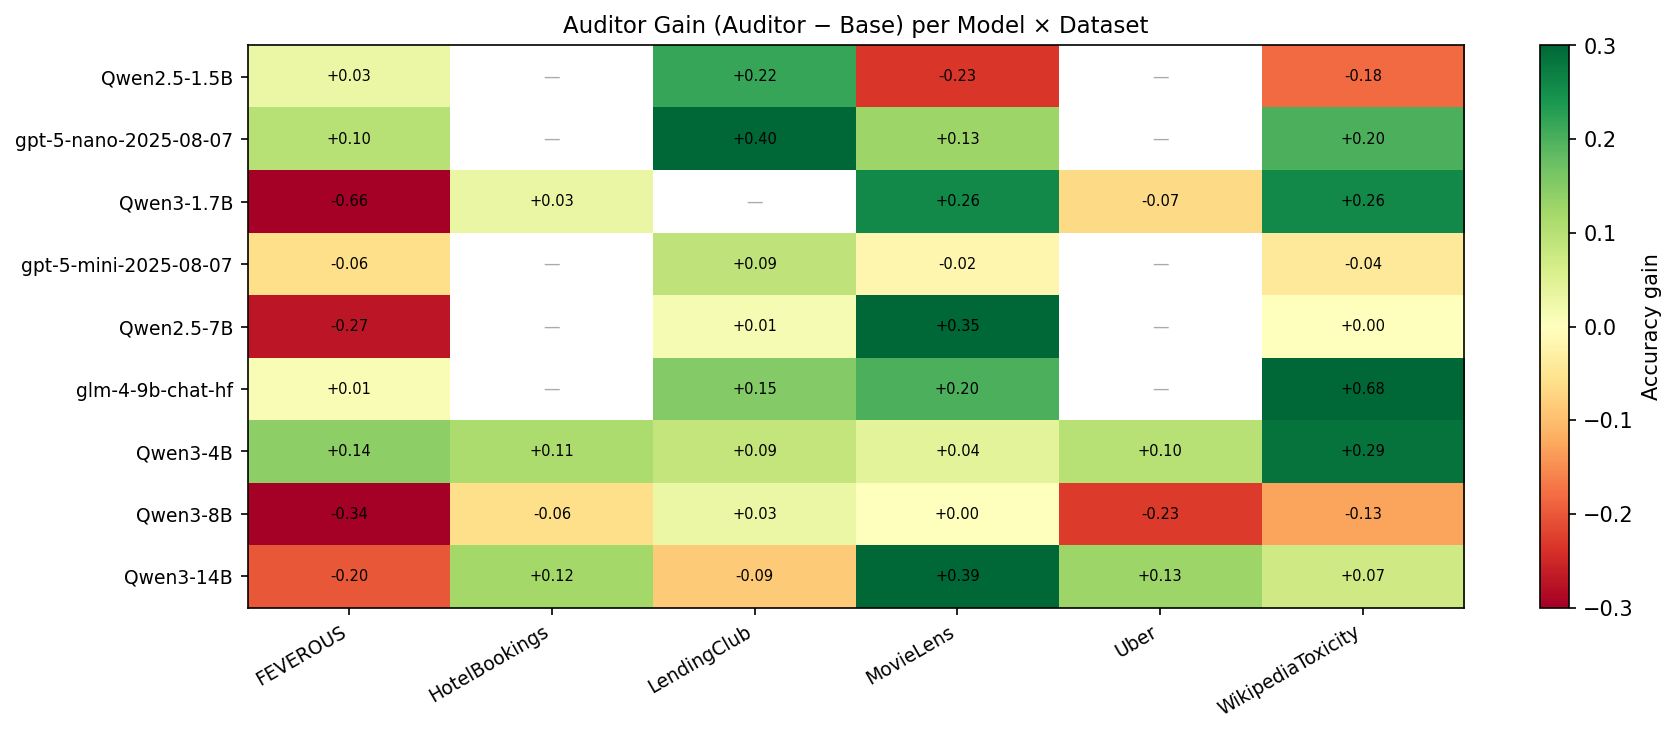
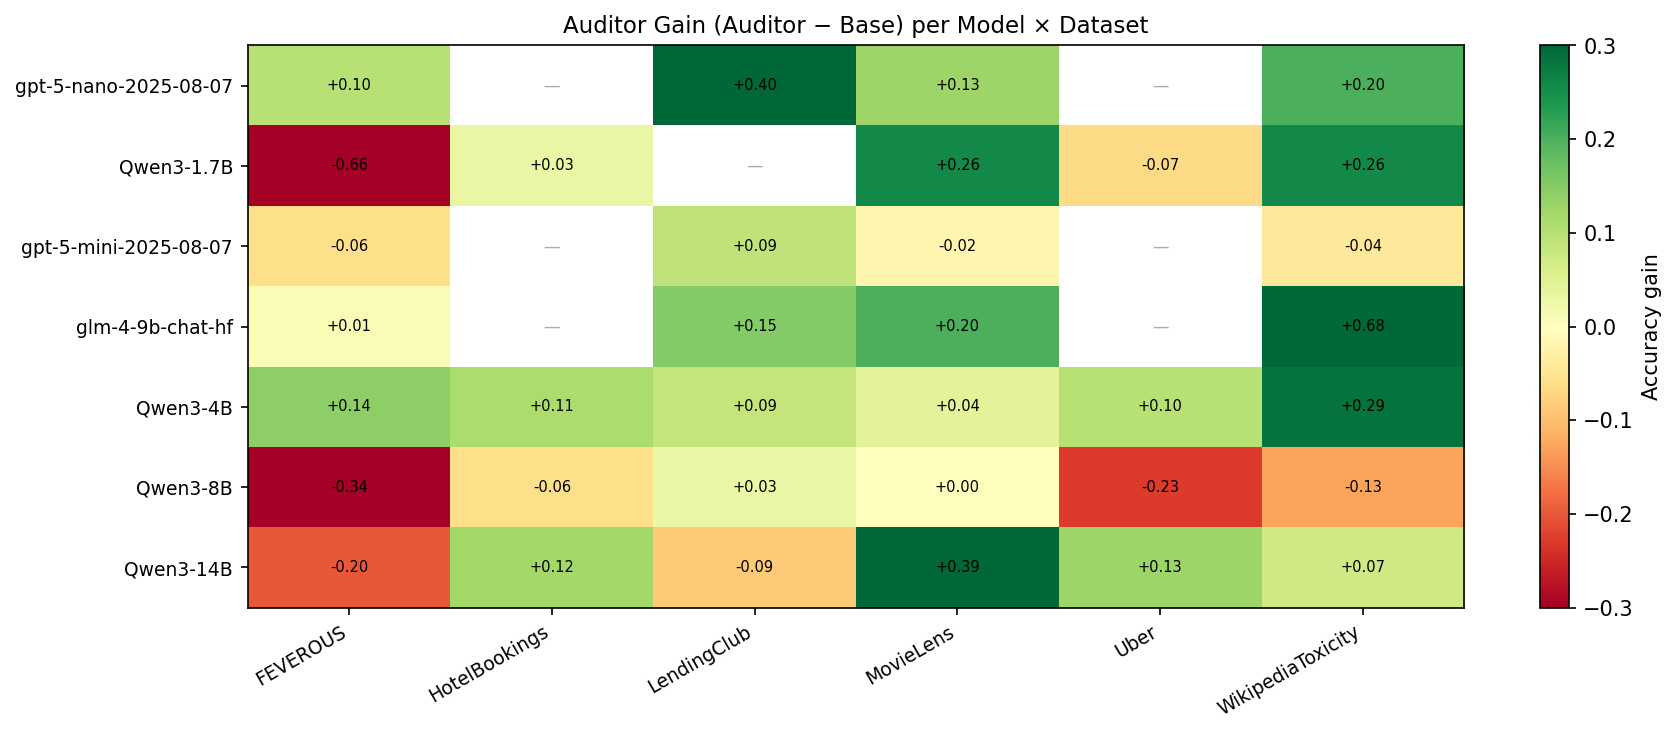
Remove Qwen2.5 rows from model x method accuracy analysis
https://claude.ai/code/session_014ywgEPu7pi1Aw4HH2SWQWR

diff --git a/scripts/plot_model_method_accuracy.py b/scripts/plot_model_method_accuracy.py
@@ -20,8 +20,8 @@ DATASETS = [
     "LendingClub", "MovieLens", "Uber", "WikipediaToxicity",
 ]
 MODELS = [
-    "Qwen2.5-1.5B-Instruct", "gpt-5-nano-2025-08-07", "Qwen3-1.7B",
-    "gpt-5-mini-2025-08-07", "Qwen2.5-7B-Instruct", "glm-4-9b-chat-hf",
+    "gpt-5-nano-2025-08-07", "Qwen3-1.7B",
+    "gpt-5-mini-2025-08-07", "glm-4-9b-chat-hf",
     "Qwen3-4B", "Qwen3-8B", "Qwen3-14B",
 ]
 TOOL_METHODS = {"rf", "ols", "glm"}
